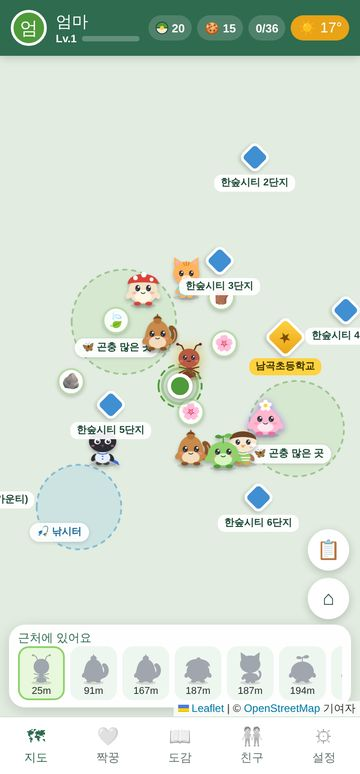
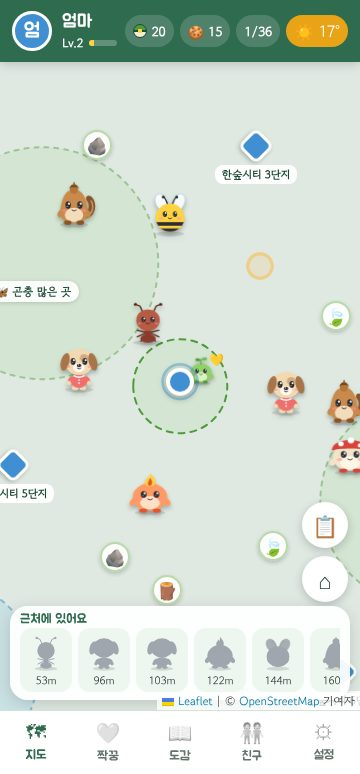
README·사용 설명서를 화면 산책 방식에 맞게 고침 (4단계)
- GPS·위치 권한·산책 연습 모드 안내를 '지도를 눌러 산책' 안내로
- 지도 보기에 산책하는 방법(누르면 걸어감, 누르면 그 앞까지 가서 잡기) 추가
- 걷기 할 일·공원 할 일·같이 걷기 2km·하루 1km 성장 상한 반영
- 보호자: 피할 곳·앞을 봐요 설명과 스크린샷 제거
- 안전 수칙·자주 묻는 질문을 화면 산책에 맞게
- 시작·지도·설정·보호자 스크린샷 새로 찍음

Claude-Session: https://claude.ai/code/session_01LTi17QLDfgcv9py89CBzzb

diff --git a/manual.html b/manual.html
@@ -90,7 +90,7 @@
 <header class="hero">
   <div class="crew" id="crew" aria-hidden="true"></div>
   <h1>한숲GO 사용 설명서</h1>
-  <p>한숲시티를 걸으며 몬스터·곤충·동물·물고기를 모으고, 짝꿍을 키우며 영어도 배우는 동네 탐험 게임이에요.</p>
+  <p>화면 속 한숲시티 지도를 눌러 산책하며 몬스터·곤충·동물·물고기를 모으고, 짝꿍을 키우며 영어도 배우는 동네 탐험 게임이에요. 밖에 나가지 않고 집에서 해요.</p>
   <a class="play" href="./">🎮 게임 시작하기</a>
 </header>
 
@@ -107,15 +107,15 @@
   <div class="sec-h"><span class="no">1</span><h2>시작하기</h2></div>
   <p class="lead">처음 열면 나오는 화면이에요. 1분이면 준비 끝!</p>
   <div class="step">
-    <figure class="phone"><img src="manual/img/start.jpg" alt="처음 시작 화면: 닉네임, 친구 코드, 내 색 고르기" loading="lazy" width="360" height="738"></figure>
+    <figure class="phone"><img src="manual/img/start.jpg" alt="처음 시작 화면: 닉네임, 친구 코드, 내 색 고르기" loading="lazy" width="360" height="774"></figure>
     <div>
       <h3>닉네임과 친구 코드</h3>
       <ol>
         <li><b>닉네임</b>을 적어요. 친구들에게 보이는 이름이에요. (나쁜 말은 쓸 수 없어요 🙂)</li>
         <li><b>친구 코드</b>는 같이 놀 친구·가족과 <b>똑같이</b> 적어요. 예: <span class="key">FAMILY-77</span><br>같은 코드끼리 도감 순위를 보고, 선물하고, 함께 걸을 수 있어요. 나중에 설정에서 넣어도 돼요.</li>
-        <li><b>내 색</b>을 고르고 <span class="key">GPS로 시작하기</span>를 눌러요. 위치 사용을 <b>허용</b>해 주세요.</li>
+        <li><b>내 색</b>을 고르고 <span class="key">시작하기</span>를 눌러요. 위치 권한은 묻지 않아요.</li>
       </ol>
-      <div class="tip">🏠 <b>집에서 먼저 해 보고 싶다면</b> <span class="key">집에서 연습하기</span>를 누르세요. 지도를 누르면 그쪽으로 걸어가요. (연습 모드에서 걸은 거리는 짝꿍 성장에 안 들어가요.)</div>
+      <div class="tip">🏠 <b>밖에 나가지 않아도 돼요.</b> 지도를 눌러 화면 속 동네를 산책하는 게임이라 집에서 앉아서 해요.</div>
       <div class="tip">📱 <b>앱처럼 쓰기</b> 크롬·사파리 메뉴에서 <b>"홈 화면에 추가"</b>를 누르면 바탕화면에 아이콘이 생겨요.</div>
     </div>
   </div>
@@ -124,17 +124,24 @@
 <!-- 2. 지도 -->
 <section id="map">
   <div class="sec-h"><span class="no">2</span><h2>지도 보기</h2></div>
-  <p class="lead">실제 동네 지도 위에 내 위치(파란 점)와 친구들이 나타나요.</p>
+  <p class="lead">실제 한숲시티 지도 위를 화면에서 산책해요. 파란 점이 나예요. <b>가고 싶은 곳을 누르면</b> 그쪽으로 걸어가요.</p>
   <div class="step">
-    <figure class="phone"><img src="manual/img/map.jpg" alt="지도 화면: 캐릭터, 거점, 재료, 근처 목록" loading="lazy" width="360" height="738"></figure>
+    <figure class="phone"><img src="manual/img/map.jpg" alt="지도 화면: 눌러서 걸어가는 모습, 캐릭터, 거점, 재료, 근처 목록" loading="lazy" width="360" height="774"></figure>
     <div>
+      <h3>산책하는 방법</h3>
+      <ul>
+        <li>👆 <b>지도를 누르면</b> 그쪽으로 걸어가요. 가는 곳에 주황 원이 나와요.</li>
+        <li>걷다가 <b>다른 곳을 누르면</b> 방향을 바꿔요.</li>
+        <li>캐릭터·거점·재료·교회를 누르면 <b>그 앞까지 걸어가서</b> 바로 잡거나 받아요.</li>
+        <li>다시 열면 <b>마지막으로 멈춘 자리</b>에서 시작해요. 한숲시티 밖으로는 못 가요.</li>
+      </ul>
       <h3>지도에서 보이는 것</h3>
       <table>
         <tr><th>보이는 것</th><th>하는 일</th></tr>
-        <tr><td>🐞🐱🐟 캐릭터</td><td>가까이 가서(초록 원 안) 누르면 잡기 화면이 열려요. 15분마다 새로 나와요.</td></tr>
-        <tr><td>🔷 거점</td><td>가까이 가서 누르면 <b>숲볼·간식·재료</b>를 받아요. 5분마다 다시 받을 수 있어요.</td></tr>
+        <tr><td>🐞🐱🐟 캐릭터</td><td>누르면 그 앞까지 걸어가서 잡기 화면이 열려요. 15분마다 새로 나와요.</td></tr>
+        <tr><td>🔷 거점</td><td>누르면 걸어가서 <b>숲볼·간식·재료</b>를 받아요. 5분마다 다시 받을 수 있어요.</td></tr>
         <tr><td>⭐ 남곡초등학교</td><td>특별 거점! 하루 한 번 특별한 친구가 나와요.</td></tr>
-        <tr><td>🍃🪨🌸 재료</td><td>가까이 가서 누르면 주워요. 가구 만들기에 써요.</td></tr>
+        <tr><td>🍃🪨🌸 재료</td><td>누르면 걸어가서 주워요. 가구 만들기에 써요.</td></tr>
         <tr><td>📋 버튼</td><td>오늘의 할 일과 계절 행사. 받을 보상이 있으면 숫자가 떠요.</td></tr>
         <tr><td>근처에 있어요</td><td>아래 줄에 가까운 친구들과 거리가 나와요.</td></tr>
       </table>
@@ -202,7 +209,7 @@
       <ul>
         <li>🍪 <b>밥 주기</b> · 🎾 <b>놀아주기</b> · 🌙 <b>재우기</b>로 배부름·기분·기운을 채워 줘요.</li>
         <li>짝꿍을 <b>톡</b> 누르면 쓰다듬어요. 기뻐하는 표정을 지어요.</li>
-        <li><b>같이 걸으면</b> 쑥쑥 자라요 (10m마다 1점). 지도에서 짝꿍이 따라다녀요.</li>
+        <li>지도에서 <b>같이 산책하면</b> 쑥쑥 자라요 (10m마다 1점, 하루 1km까지). 지도에서 짝꿍이 따라다녀요.</li>
         <li>성장 점수가 쌓이면 <b>아기 → 어린이 → 어른</b>으로 진화! 동물 친구는 진화할 때마다 <b>옷이 바뀌고</b>, 어른이 되면 왕관을 써요.</li>
         <li><span class="key">이름 짓기</span>로 짝꿍 이름을 정할 수 있어요.</li>
       </ul>
@@ -260,7 +267,7 @@
 <!-- 교회 -->
 <section id="church">
   <div class="sec-h"><span class="no">⛪</span><h2>교회에서 말씀 듣기</h2></div>
-  <p class="lead">지도의 ⛪ 교회에 가까이 가서 누르면 교회 안으로 들어가요.</p>
+  <p class="lead">지도의 ⛪ 교회를 누르면 그 앞까지 걸어가서 교회 안으로 들어가요.</p>
   <div class="step">
     <figure class="phone"><img src="manual/img/church.jpg" alt="교회 안: 오늘의 말씀과 쉬운 풀이" loading="lazy" width="360" height="738"></figure>
     <div>
@@ -283,7 +290,7 @@
     <div>
       <h3>📋 오늘의 할 일</h3>
       <ul>
-        <li>지도 오른쪽 <span class="key">📋</span> 버튼. <b>날마다 할 일 3가지</b>가 바뀌어요.<br>(잡기 하나 · 짝꿍·영어 하나 · 산책·텃밭·친구 하나)</li>
+        <li>지도 오른쪽 <span class="key">📋</span> 버튼. <b>날마다 할 일 3가지</b>가 바뀌어요.<br>(잡기 하나 · 짝꿍·영어 하나 · 산책·텃밭·친구 하나)<br>산책 할 일 예: 한숲시티 1km 산책하기 · 공원·연못 2곳 가 보기 · 거점 2곳 들르기</li>
         <li>하나 끝내면 <span class="key">받기</span>로 숲볼·간식·재료를 받아요. <b>셋 다 하면 보너스!</b></li>
       </ul>
       <h3>🍂 계절 행사</h3>
@@ -313,7 +320,7 @@
     <figure class="phone"><img src="manual/img/gift.jpg" alt="선물 보내기 창: 개수와 쪽지 고르기" loading="lazy" width="360" height="738">
       <h3>🎁 선물하기</h3><p>간식·재료·씨앗·작물을 하루 5번까지 보내요. 쪽지는 정해진 고운 문장 중에서 골라요.</p></figure>
     <figure class="phone"><img src="manual/img/walk.jpg" alt="친구와 같이 걷기 중인 지도" loading="lazy" width="360" height="738">
-      <h3>🚶 같이 걷기</h3><p>1시간 동안 둘이 합쳐 1km! 성공하면 둘 다 🎀우정 리본을 받아요.</p></figure>
+      <h3>🚶 같이 걷기</h3><p>1시간 동안 둘이 합쳐 2km! (한 사람 500m 이상) 성공하면 둘 다 🎀우정 리본을 받아요.</p></figure>
     <figure class="phone"><img src="manual/img/inbox.jpg" alt="우편함: 받은 선물과 방명록" loading="lazy" width="360" height="738">
       <h3>📬 우편함</h3><p>받은 선물과 방명록은 친구 탭 위쪽 우편함에서 열어요.</p></figure>
   </div>
@@ -325,29 +332,25 @@
   <div class="parent">
     <p class="lead" style="margin-top:12px">설정 탭 아래쪽 <b>👪 보호자</b>에 있어요. 처음에 <b>보호자 비밀번호 4자리</b>를 만들면, 설정이 비밀번호로 잠겨요.</p>
     <div class="step">
-      <figure class="phone"><img src="manual/img/parent.jpg" alt="보호자 설정 화면" loading="lazy" width="360" height="738"></figure>
+      <figure class="phone"><img src="manual/img/parent.jpg" alt="보호자 설정 화면: 하루 놀이 시간, 잠잘 시간" loading="lazy" width="360" height="774"></figure>
       <div>
         <h3>🔒 보호자 설정</h3>
         <ul>
           <li>⏰ <b>하루 놀이 시간</b> (30분~2시간): 화면을 보고 있는 시간만 세요.</li>
           <li>🌙 <b>잠잘 시간</b> (밤 8·9·10시 ~ 아침 6시)</li>
-          <li>🚶 <b>걸을 때 앞 보기 알림</b>: 40초 넘게 걸으며 화면을 보면 "앞을 봐요!"</li>
-          <li>🚧 <b>캐릭터가 안 나오는 곳</b>: 큰길·주차장 입구처럼 위험한 곳을 정하면 반경 60m 안에는 캐릭터와 재료가 나오지 않아요. 지도에 빨간 점선으로 보여요.</li>
         </ul>
         <div class="tip">🔑 비밀번호를 잊으면 <b>'내 기록 모두 지우기'</b>로만 풀 수 있어요. 아이가 모르는 숫자로 정해 주세요.</div>
       </div>
     </div>
     <div class="phones">
       <figure class="phone"><img src="manual/img/rest.jpg" alt="놀이 시간이 끝나면 나오는 쉬는 화면" loading="lazy" width="360" height="738"><figcaption>놀이 시간을 다 쓰면 "오늘은 여기까지!" · 보호자가 비밀번호로 15분 더 허락할 수 있어요</figcaption></figure>
-      <figure class="phone"><img src="manual/img/lookup.jpg" alt="걸을 때 앞을 보라는 알림 화면" loading="lazy" width="360" height="738"><figcaption>걸으며 화면을 오래 보면 "앞을 봐요!"</figcaption></figure>
-      <figure class="phone"><img src="manual/img/zone.jpg" alt="빨간 점선으로 표시된 캐릭터가 안 나오는 곳" loading="lazy" width="360" height="738"><figcaption>🚧 캐릭터가 안 나오는 곳 (빨간 점선)</figcaption></figure>
     </div>
     <div class="step flip">
       <figure class="phone"><img src="manual/img/report.jpg" alt="이번 주 리포트 화면: 걸은 거리, 놀이 시간 그래프" loading="lazy" width="360" height="738"></figure>
       <div>
         <h3>📊 이번 주 리포트</h3>
         <ul>
-          <li>최근 7일 <b>걸은 거리·놀이 시간</b> 막대그래프</li>
+          <li>최근 7일 <b>산책한 거리·놀이 시간</b> 막대그래프</li>
           <li>잡은 친구·새 친구, 영어 대화 횟수, <b>새로 배운 영어 표현·단어</b>, 퀴즈 정답률, 끝낸 할 일</li>
           <li><span class="key">📋 리포트 복사해서 보내기</span>로 카톡에 붙여 가족에게 보낼 수 있어요.</li>
         </ul>
@@ -363,19 +366,20 @@
 <section id="safety">
   <div class="sec-h"><span class="no">10</span><h2>안전 수칙 · 자주 묻는 질문</h2></div>
   <div class="step">
-    <figure class="phone"><img src="manual/img/settings.jpg" alt="설정 화면" loading="lazy" width="360" height="738"></figure>
+    <figure class="phone"><img src="manual/img/settings.jpg" alt="설정 화면" loading="lazy" width="360" height="774"></figure>
     <div>
       <h3>🚸 꼭 지켜요</h3>
       <ul>
-        <li>걸으면서 화면만 보지 않아요. 길을 건널 때는 <b>휴대폰을 내려 두어요</b>.</li>
-        <li>어린이는 <b>보호자와 함께</b>, 단지 안에서 놀아요.</li>
-        <li>찻길·주차장에는 들어가지 않아요. 캐릭터가 거기 있어도 다음에 잡아요!</li>
+        <li>화면 속에서 산책하는 게임이에요. <b>걸으면서 하지 말고 앉아서</b> 해요.</li>
+        <li>눈이 피곤하면 쉬어요. 보호자가 <b>하루 놀이 시간</b>을 정할 수 있어요.</li>
+        <li>AR(카메라)로 볼 때는 주변을 살피고 제자리에서 해요.</li>
         <li>모르는 사람에게 친구 코드를 알려 주지 않아요.</li>
       </ul>
     </div>
   </div>
   <div class="faq">
-    <details><summary>📍 내 위치가 안 나와요</summary><p>휴대폰 설정에서 <b>위치 서비스</b>를 켜고, 브라우저(크롬·사파리)의 위치 권한을 <b>허용</b>해 주세요. 실내에서는 위치가 덜 정확할 수 있어요. 집에서는 설정 → <b>산책 연습 모드</b>로 놀 수 있어요.</p></details>
+    <details><summary>📍 위치 권한이 필요한가요?</summary><p>아니요. 한숲GO는 GPS를 쓰지 않아요. 지도를 눌러 화면 속 동네를 산책해요. 내 위치는 어디에도 보내지 않아요.</p></details>
+    <details><summary>🚶 걸어가는 게 멈췄어요</summary><p>잡기 화면이 열려 있으면 잠깐 멈춰요. 잡기를 끝내거나 돌아오면 다시 걸어가요. 지도를 다시 눌러도 돼요.</p></details>
     <details><summary>🔇 짝꿍 영어 소리가 안 나요</summary><p>휴대폰 <b>무음 모드</b>를 끄고 소리를 키워 주세요. 영어 대화 화면 위쪽 🔊 버튼이 켜져 있는지도 확인해 주세요. 목소리는 휴대폰에 들어 있는 음성을 써서 폰마다 조금 달라요.</p></details>
     <details><summary>🐢 3D가 느리거나 버벅여요</summary><p>설정 → <b>3D 화질</b>을 <b>"낮음"</b>으로 바꿔 보세요. 3D를 쓸 수 없는 폰에서는 자동으로 그림(2D)으로 보여 줘요.</p></details>
     <details><summary>👫 친구가 안 보여요</summary><p>둘 다 설정에서 <b>친구 코드</b>를 똑같이(대소문자 상관없이) 적었는지 확인해 주세요. 인터넷이 연결되어 있어야 해요.</p></details>
@@ -394,7 +398,7 @@
 
 </main>
 
-<footer>한숲GO · 한숲시티와 남곡초 주변을 걸으며 노는 동네 탐험 게임</footer>
+<footer>한숲GO · 화면 속 한숲시티와 남곡초 주변을 산책하며 노는 동네 탐험 게임</footer>
 
 <script type="module">
   // 맨 위에 게임 캐릭터 그림 (게임과 같은 그림)

diff --git a/js/room.js b/js/room.js
@@ -1,5 +1,5 @@
 // 짝꿍 방 꾸미기
-// - 동네를 걸으며 재료(나뭇잎, 조약돌...)를 줍고
+// - 지도에서 산책하며 재료(나뭇잎, 조약돌...)를 줍고
 // - 재료로 가구를 만들어 짝꿍 방에 놓습니다.
 // - 방이 아늑할수록 짝꿍 기분이 덜 떨어지고, 하루에 한 번 성장 보너스를 받아요.
 

diff --git a/README.md b/README.md
@@ -1,7 +1,7 @@
 # 한숲GO
 
-용인시 처인구 남사읍 **한숲시티 1~6단지와 남곡초등학교 일대**를 배경으로 하는 위치 기반 몬스터 수집 게임입니다.
-갤럭시 등 스마트폰의 크롬 브라우저에서 바로 실행되며, 앱을 설치하지 않아도 됩니다.
+용인시 처인구 남사읍 **한숲시티 1~6단지와 남곡초등학교 일대**를 배경으로, 화면 속 동네 지도를 눌러 산책하며 몬스터·곤충·동물·물고기를 모으는 게임입니다.
+GPS 없이 집에서도 할 수 있고, 스마트폰·태블릿·PC 브라우저에서 바로 실행되며 앱을 설치하지 않아도 됩니다.
 
 **게임 주소: https://hansupgo.github.io**
 
@@ -30,7 +30,7 @@
 
 | 기능 | 설명 |
 |---|---|
-| 지도 | 실제 동네 지도(OpenStreetMap) 위에 내 위치가 GPS로 표시됩니다. |
+| 지도 · 화면 산책 | 실제 동네 지도(OpenStreetMap) 위를 화면에서 산책해요. **지도를 누르면 그쪽으로 걸어가고**(가는 곳에 주황 원), 몬스터·거점·재료·교회를 누르면 그 앞까지 걸어가서 바로 잡거나 받아요. 걷다가 다른 곳을 누르면 방향을 바꿔요. 마지막으로 멈춘 자리를 기억하고, 한숲시티 밖으로는 나가지 않아요. 위치 권한(GPS)은 쓰지 않아요. |
 | 출현 | 15분마다 주변에 새로 나타납니다. 같은 시간, 같은 장소에는 친구 모두에게 같은 것이 나타납니다. |
 | 거점 | 한숲시티 단지 거점에서 숲볼 5개와 간식 3개를 받습니다 (5분마다). |
 | ★ 남곡초등학교 | 특별 거점: 숲볼 10개, 간식 5개, 하루 한 번 특별한 몬스터. |
@@ -38,21 +38,20 @@
 | AR | `AR 켜기`: 카메라 화면 위에 나타나고, 휴대폰을 돌려도 그 자리에 머물러 있어요 (자이로). |
 | 진짜 AR | `🪄 진짜 AR`: ARCore를 지원하는 휴대폰(갤럭시 등)의 크롬에서 바닥을 인식해 실제 바닥 위에 세웁니다. 걸어서 다가가거나 옆으로 돌아볼 수 있어요. 지원하지 않는 휴대폰에서는 버튼이 보이지 않아요. |
 | 친구 도감 | 같은 친구 코드를 쓰는 사람끼리 순위, 서로의 도감, 최근 소식을 함께 봅니다. |
-| 산책 연습 모드 | 집에서 지도를 눌러 이동하며 연습할 수 있습니다. |
-| 💛 짝꿍 | 잡은 친구 하나를 짝꿍으로 정해 밥 주기·놀아주기·재우기로 돌봅니다. 함께 걸은 거리(10m에 1점)와 돌봄으로 아기 → 어린이 → 어른으로 자라요. 지도에서 내 옆을 따라다닙니다. |
-| 재료 줍기 | 지도에 🍃나뭇잎 🪵나뭇가지 🪨조약돌 🌸꽃잎(공원) 🐚조개껍데기(연못) ✨별가루(밤)가 떨어져 있어요. 가까이 가서 누르면 주워요. 거점에서도 받고, 잡은 친구가 가끔 선물로 줘요. |
+| 💛 짝꿍 | 잡은 친구 하나를 짝꿍으로 정해 밥 주기·놀아주기·재우기로 돌봅니다. 함께 걸은 거리(10m에 1점, 하루 1km까지)와 돌봄으로 아기 → 어린이 → 어른으로 자라요. 지도에서 내 옆을 따라다닙니다. |
+| 재료 줍기 | 지도에 🍃나뭇잎 🪵나뭇가지 🪨조약돌 🌸꽃잎(공원) 🐚조개껍데기(연못) ✨별가루(밤)가 떨어져 있어요. 누르면 그 앞까지 걸어가서 주워요. 거점에서도 받고, 잡은 친구가 가끔 선물로 줘요. |
 | 방 꾸미기 | 재료로 가구 13가지와 벽지·바닥을 만들어 짝꿍의 3D 방에 놓습니다. 방이 아늑할수록 짝꿍 기분이 덜 떨어지고, 하루 한 번 성장 보너스(최대 +30)를 받아요. 버섯 침대가 있으면 짝꿍이 침대에서 자요. |
 | 🌦 날씨·시간 | 한숲시티의 실제 날씨(Open-Meteo)와 아침·낮·노을·밤에 따라 지도 색과 비·눈 효과가 바뀌어요. 비 오는 날엔 연못 친구들이 동네 웅덩이에도 나오고 💧빗방울을, 눈 오는 날엔 ❄눈송이를 주울 수 있어요. 맑은 낮엔 곤충이 많아요. 위쪽 날씨 칩을 누르면 설명이 나와요. |
 | 🌱 텃밭 | 짝꿍 탭에서 🏠방/🌱텃밭을 바꿔 가요. 동네마다 나는 씨앗(남곡초 상추, 단지 토마토, 산내음공원 딸기, 햇빛공원 해바라기, 물빛공원 연꽃, 밤에 호박)을 심고 물을 주면 자라요(비 오면 저절로). 거둔 것은 짝꿍 밥(성장 +8)과 특별 가구(해바라기 화분, 연꽃 등불, 호박 랜턴, 눈사람 인형, 빗방울 풍경) 재료가 돼요. |
 | 🏡 친구 집 놀러 가기 | 친구 탭 → 친구 이름 → 놀러 가기. 친구의 3D 방과 텃밭에 내 짝꿍과 함께 놀러 가요(친구마다 하루 한 번 기분 +15·성장 +5). 목마른 친구 밭을 누르면 물을 줄 수 있고, 영어·한국어 방명록 스티커를 남길 수 있어요. |
 | 🎁 선물하기 | 간식·재료·씨앗·작물을 하루 5번까지 친구에게 보내요. 받은 선물은 친구 탭 📬우편함에서 열어요. |
-| 🚶 같이 걷기 | 친구를 초대해 1시간 동안 둘이 합쳐 1km를 걸어요. 위치는 보내지 않고 걸은 거리만 나눠요. 같이 걷는 동안 짝꿍이 1.5배 빨리 자라고, 성공하면 둘 다 🎀우정 리본(→ 우정 사진 액자)을 받아요. |
+| 🚶 같이 걷기 | 친구를 초대해 1시간 동안 둘이 합쳐 2km를 걸어요(한 사람 500m 이상). 위치는 보내지 않고 걸은 거리만 나눠요. 같이 걷는 동안 짝꿍이 1.5배 빨리 자라고, 성공하면 둘 다 🎀우정 리본(→ 우정 사진 액자)을 받아요. |
 | 🔤 단어 카드 · 🧩 짝꿍 퀴즈 | 영어로 이야기하기 → 🔤 단어 카드 / 🧩 짝꿍 퀴즈. 게임에서 만난 것(잡은 친구, 만든 가구, 거둔 작물, 밥 주기·놀기·재우기, 대화에 나온 낱말)이 그림 단어 카드 195장(동물·자연·먹을 것·집·입는 것·학교·가족·몸·장소·탈것·색깔·숫자·기분·하는 일)으로 모여요. 카드를 누르면 낱말과 예문을 소리로 들려줘요. 퀴즈는 난이도 3단계, 한 판 5문제: ⭐쉬움(그림 보고 영어 고르기 · 듣고 그림 고르기, 모은 카드만) / ⭐⭐보통(한글 뜻 보고 영어 고르기 · 듣고 낱말 고르기, 새 낱말 도전) / ⭐⭐⭐어려움(바른 철자 고르기 · 예문 빈칸 채우기, 절반은 새 낱말). 새 낱말을 맞히면 그 카드를 얻고, 어려울수록 짝꿍이 더 자라요(+2/+3/+4). 틀린 낱말·덜 맞힌 낱말·오래 안 본 낱말이 먼저 나오고, 맞힐수록 ★이 늘어요. 맞힌 만큼 경험치, 하루 3판까지 짝꿍 성장. 짝꿍 방에서 가끔 깜짝 퀴즈(3문제, 하루 3번)도 내요. |
-| ⛪ 교회 | 지도의 ⛪ 교회에 가까이 가서 누르면 교회 안으로 들어가요. **오늘의 말씀**(날마다 다른 성경 구절 + 어린이를 위한 쉬운 풀이 + 🔊 소리로 듣기 + 짧은 기도), **복음 이야기**(하나님의 사랑 → 죄 → 예수님 → 다시 사심 → 믿음과 새 생명, 다섯 장면), **말씀 카드**(올 때마다 그날 말씀을 모음, 30장), **출석 도장**(하루 한 번, 첫 방문 숲볼 3개). 성경 본문은 저작권이 끝난 「개역한글」. 교회 위치·이름은 `js/config.js`의 `churches`에서 바꿔요. |
-| 📋 오늘의 할 일 | 지도 오른쪽 📋 버튼. 날마다 할 일 3가지(잡기 / 짝꿍·영어·도감 / 산책·텃밭·친구)가 바뀌어요. 하나 끝낼 때마다 보상(숲볼·간식·재료)을 받고, 셋 다 하면 보너스(숲볼 5·간식 3·별가루·행사 재료 3)! 받을 보상이 있으면 버튼에 숫자가 떠요. |
+| ⛪ 교회 | 지도의 ⛪ 교회를 누르면 그 앞까지 걸어가서 교회 안으로 들어가요. **오늘의 말씀**(날마다 다른 성경 구절 + 어린이를 위한 쉬운 풀이 + 🔊 소리로 듣기 + 짧은 기도), **복음 이야기**(하나님의 사랑 → 죄 → 예수님 → 다시 사심 → 믿음과 새 생명, 다섯 장면), **말씀 카드**(올 때마다 그날 말씀을 모음, 30장), **출석 도장**(하루 한 번, 첫 방문 숲볼 3개). 성경 본문은 저작권이 끝난 「개역한글」. 교회 위치·이름은 `js/config.js`의 `churches`에서 바꿔요. |
+| 📋 오늘의 할 일 | 지도 오른쪽 📋 버튼. 날마다 할 일 3가지(잡기 / 짝꿍·영어·도감 / 산책·텃밭·친구)가 바뀌어요. 산책 할 일은 "한숲시티 1km 산책하기", "공원·연못 2곳 가 보기", "거점 2곳 들르기" 등. 하나 끝낼 때마다 보상(숲볼·간식·재료)을 받고, 셋 다 하면 보너스(숲볼 5·간식 3·별가루·행사 재료 3)! 받을 보상이 있으면 버튼에 숫자가 떠요. |
 | 🍂 계절 행사 | 계절마다 행사가 열려요: 🌸벚꽃 축제(3~5월) · 🌙반딧불 여름밤(6~8월) · 🍂도토리 줍기(9~11월) · ⛄눈사람 만들기(12~2월). 행사 친구 3종이 3배 자주 나오고, 친구를 잡을 때마다 행사 재료(💮벚꽃잎·💫반딧불빛·🌰도토리·⚪눈뭉치, 행사 친구는 2개)를 받아요. 모은 재료로 그 계절에만 만들 수 있는 가구(벚꽃 나무 화분, 반딧불 병, 도토리 등불·단풍잎 액자, 반짝 스노볼)를 만들어요. 만든 가구는 계절이 지나도 그대로예요. |
 | 🙂 고운 말 지킴이 | 닉네임·짝꿍 이름·친구 코드에 욕설이나 나쁜 말(한국어·영어, 띄어쓰기·숫자·기호를 섞어도)을 쓰면 저장하지 않고 안내해요. 친구에게서 받은 이름에 나쁜 말이 섞여 있으면 '친구'로 가려서 보여 줘요. 방명록은 정해진 스티커 문장만 쓸 수 있어요. |
-| 👪 보호자 안심 | 설정 → 🔒 보호자 설정 (보호자 비밀번호 4자리로 잠금). **하루 놀이 시간**(30분~2시간): 화면을 보고 있는 시간만 세고, 다 쓰면 "오늘은 여기까지!" 화면. **잠잘 시간**(밤 8~10시 ~ 아침 6시): "잘 시간이야!" 화면. 보호자가 비밀번호로 15분 더(또는 오늘 밤만) 허락할 수 있어요. **걸을 때 앞 보기**: 40초 넘게 걸으며 화면을 보면 "앞을 봐요!" 알림. **캐릭터가 안 나오는 곳**: 큰길·주차장 입구 같은 곳을 정하면 반경 60m 안에는 캐릭터와 재료가 나오지 않아요(지도에 빨간 점선). |
+| 👪 보호자 안심 | 설정 → 🔒 보호자 설정 (보호자 비밀번호 4자리로 잠금). **하루 놀이 시간**(30분~2시간): 화면을 보고 있는 시간만 세고, 다 쓰면 "오늘은 여기까지!" 화면. **잠잘 시간**(밤 8~10시 ~ 아침 6시): "잘 시간이야!" 화면. 보호자가 비밀번호로 15분 더(또는 오늘 밤만) 허락할 수 있어요. |
 | 📊 이번 주 리포트 | 설정 → 📊 이번 주 리포트. 최근 7일 걸은 거리·놀이 시간 막대그래프, 잡은 친구·새 친구, 영어 대화 횟수, 새로 배운 영어 표현, 끝낸 할 일, 짝꿍 돌봄. "리포트 복사"로 메신저에 붙여 보낼 수 있어요. 기록은 이 휴대폰에만 저장돼요. |
 | 🎨 그림체·표정 | 캐릭터는 마을풍 그림체예요: 큰 머리에 작은 몸, 펠트 인형 같은 부드러운 재질. 동물 친구들은 두 발로 서서 옷을 입고, 짝꿍이 진화하면 옷도 바뀌어요. 몬스터는 짧은 팔을 살랑여요. 방·가구·텃밭과 잡기 화면 배경도 외곽선 없이 모서리가 둥글고 폭신한 마을풍이에요. 짝꿍은 기쁨(^^)·놀람(o)·졸림·시무룩 표정을 짓고, 뒤뚱뒤뚱 걷고, 웅크렸다 통통 뛰고, 손가락 쪽을 바라봐요. 설정 → 3D 화질(자동/낮음/보통/높음). |
 | ✨ 움직임·효과 | 속성별 입자(불씨·물방울·나뭇잎·반짝이·눈송이), 몇 초마다 하는 재롱(빙글, 말랑, 꼬리 흔들기, 데굴, 첨벙...), 밥이 날아와 냠냠, 장난감 공 튕기기, 쓰다듬으면 하트, 진화 빛 기둥과 하얀 실루엣, 램프 빛 번짐, 가구·짝꿍의 진짜 그림자(화질 '낮음'이면 꺼짐). |
@@ -70,7 +69,7 @@
    `https://hansupgo.github.io`
 4. 크롬 메뉴 → **홈 화면에 추가**를 누르면 앱처럼 쓸 수 있습니다.
 
-> GPS와 카메라는 보안 때문에 `https://` 주소에서만 동작합니다. GitHub Pages는 https이므로 문제없습니다.
+> 카메라(AR)와 마이크는 보안 때문에 `https://` 주소에서만 동작합니다. GitHub Pages는 https이므로 문제없습니다.
 
 ## 2. 친구 도감 공유 켜기 (Firebase, 무료)
 
@@ -101,8 +100,9 @@ Firebase의 `apiKey`는 비밀번호가 아니라 앱을 구분하는 값이라 
 
 ## 안전 수칙
 
-- 걸으면서 화면만 보지 말고, 길을 건널 때는 휴대폰을 내려 두세요.
-- 어린이는 보호자와 함께 단지 안에서 플레이하세요.
+- 화면에서 산책하는 게임이라 실제로 걸을 필요가 없어요. 걸으면서 하지 말고 앉아서 해요.
+- 보호자 설정의 하루 놀이 시간·잠잘 시간으로 화면 보는 시간을 조절할 수 있어요.
+- AR(카메라)로 볼 때는 주변을 살피고 제자리에서 해요.
 
 ## 파일 구성
 
@@ -134,7 +134,7 @@ hansupgo.github.io/
 ├── js/church.js        교회: 오늘의 말씀·복음 이야기·말씀 카드·출석 도장
 ├── js/safety.js        고운 말 지킴이 (이름 욕설 거르기)
 ├── js/vocab.js         영어 단어 카드(195장)·퀴즈 문제 만들기·복습 순서
-├── js/parent.js        보호자 설정·날마다 기록 (놀이 시간, 잠잘 시간, 피할 곳, 앞 보기)
+├── js/parent.js        보호자 설정·날마다 기록 (놀이 시간, 잠잘 시간)
 ├── js/parent-ui.js     쉬는 시간 화면, 앞 보기 알림, 보호자 설정, 이번 주 리포트
 ├── js/furniture3d.js   짝꿍 방과 가구 3D 모델
 ├── js/store.js         기록 저장, 친구 공유
